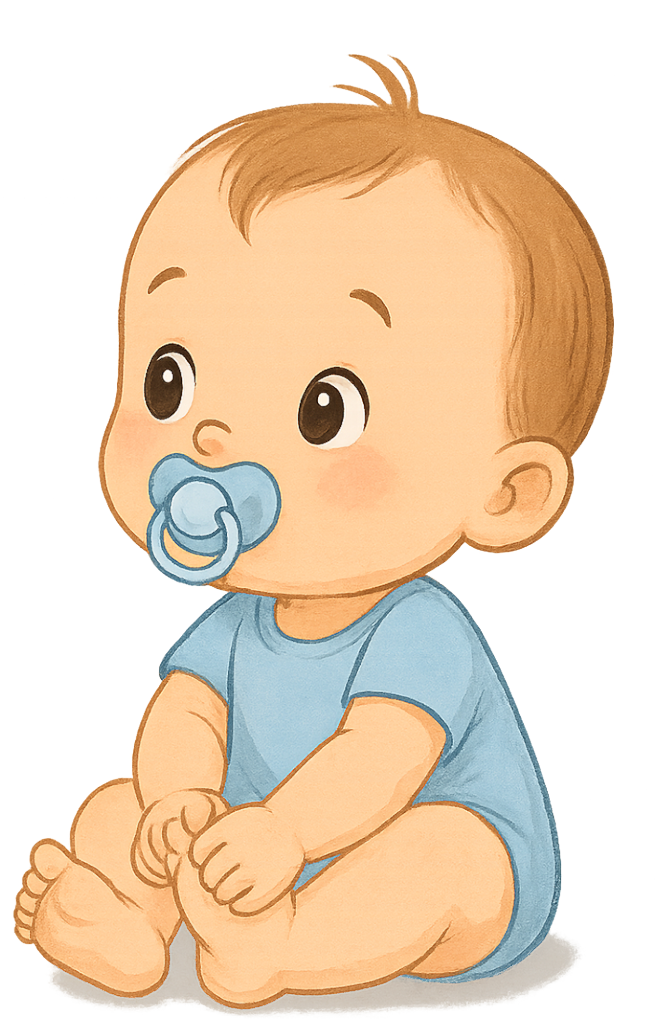
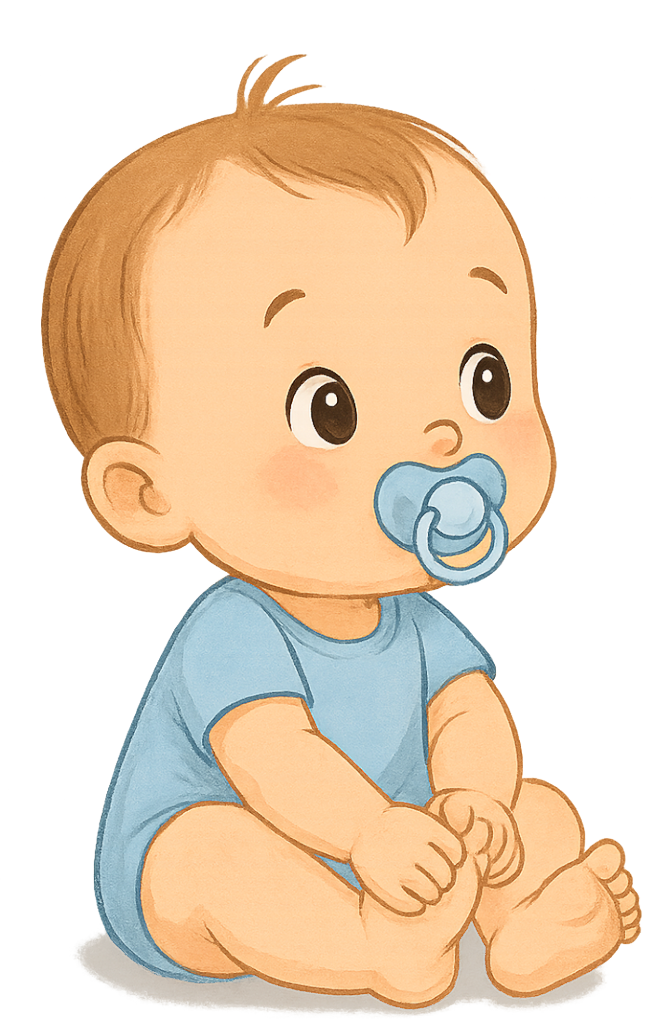
Update image sources and adjust styles for boy and girl sections; add mirror effect and test confetti

diff --git a/public/script.js b/public/script.js
@@ -2,7 +2,7 @@
 // MANUÁLIS VEZÉRLÉS
 // =======================
 
-const MODE = "before"; // "before" | "girl" | "boy"
+const MODE = "boy"; // "before" | "girl" | "boy"
 
 // =======================
 // DOM BETÖLTÉS UTÁN
@@ -23,8 +23,18 @@ document.addEventListener("DOMContentLoaded", () => {
   }
 
   // classok törlése
-  body.classList.remove("before", "girl", "boy");
-  body.classList.add(MODE);
+  /*body.classList.remove("before", "girl", "boy");
+  body.classList.add(MODE);*/
+
+  function switchMode(mode) {
+    body.classList.remove("before", "girl", "boy");
+    body.classList.remove("fade-in", "fade-out");
+
+    body.classList.add(mode);
+    body.classList.add("fade-in");
+
+    applyModeContent(mode);
+  }
 
   // tükrözés reset
   girlImg.classList.remove("mirror");
@@ -36,45 +46,65 @@ document.addEventListener("DOMContentLoaded", () => {
     girlImg.src = girlImg.dataset.normal;
     boyImg.src = boyImg.dataset.normal;
 
+    girlImg.classList.remove("mirror");
+    boyImg.classList.remove("mirror");
+
+    boyImg.classList.add("mirror");
+
     headline.innerHTML = `
       Hamarosan kiderül,<br>
       <span class="girl-word">kislány</span> leszek-e vagy
       <span class="boy-word">kisfiú</span>!
     `;
-
-    // főoldalon: bal baba jobbra néz
-    girlImg.classList.add("mirror");
   }
 
   if (MODE === "girl") {
     girlImg.src = girlImg.dataset.happy;
     boyImg.src = girlImg.dataset.happy;
+    girlImg.classList.remove("mirror");
+    boyImg.classList.remove("mirror");
+
+    boyImg.classList.add("mirror");
 
     headline.textContent = "Kislány leszek!";
-
-    // bal oldalon kislány balra néz
-    girlImg.classList.remove("mirror");
-    // jobb oldalon kislány jobbra néz
-    boyImg.classList.add("mirror");
   }
 
   if (MODE === "boy") {
     girlImg.src = boyImg.dataset.happy;
     boyImg.src = boyImg.dataset.happy;
-
-    headline.textContent = "Kisfiú leszek!";
-
-    // bal oldalon kisfiú jobbra néz
-    girlImg.classList.add("mirror");
-    // jobb oldalon kisfiú balra néz
+    girlImg.classList.remove("mirror");
     boyImg.classList.remove("mirror");
+
+    boyImg.classList.add("mirror");
+    headline.textContent = "Kisfiú leszek!";
   }
 
   // =======================
   // KONFETTI EFFEKT
   // =======================
 
-  function launchConfetti(side) {
+  // teszteléshez
+  function testConfetti() {
+    const layer = document.getElementById("confettiLayer");
+    if (!layer) {
+      console.error("confettiLayer nem található");
+      return;
+    }
+
+    const c = document.createElement("div");
+    c.style.position = "absolute";
+    c.style.left = "50%";
+    c.style.top = "50%";
+    c.style.width = "12px";
+    c.style.height = "12px";
+    c.style.background = "red";
+    c.style.borderRadius = "50%";
+
+    layer.appendChild(c);
+  }
+  // teszteléshez vége
+
+  /*function launchConfetti(side) {
     const confetti = document.createElement("div");
     confetti.className = "confetti";
 
@@ -120,7 +150,20 @@ document.addEventListener("DOMContentLoaded", () => {
         launchConfetti("right");
       }
     }, 200);
+  }*/
+
+  // teszt-konfetti indítása
+  document.addEventListener("DOMContentLoaded", testConfetti);
+  if (
+    document.body.classList.contains("girl") ||
+    document.body.classList.contains("boy")
+  ) {
+    setInterval(() => {
+      testConfetti("left");
+      testConfetti("right");
+    }, 200);
   }
+  // teszt-konfetti vége
 });
 
 // =======================
@@ -223,3 +266,5 @@ if (MODE === "before") {
     }
   }, 1000);
 }
+
+console.log("BODY CLASSES:", document.body.className);

diff --git a/public/style.css b/public/style.css
@@ -29,6 +29,14 @@ body.fade-out {
 }
 
 /* =========================
+   TÜKRÖM-TÜKRÖM MONDD MEG NÉKEM, miért szarakodsz minden képpel?
+   ========================= */
+
+.mirror {
+  transform: scaleX(-1);
+}
+
+/* =========================
    FŐOLDAL (BEFORE)
    ========================= */
 
@@ -173,18 +181,29 @@ body.girl {
   background: linear-gradient(to bottom, #ffd6e8, #ffeaf2);
 }
 
-body.girl .page {
-  height: 100vh;
+body.girl .content-container {
+  height: calc(70vh - 16vh);
 }
 
 body.girl .baby {
-  width: 22vw;
-  max-width: 320px;
+  flex: 0 0 28%;
+  display: flex;
+  justify-content: center;
+  align-items: center;
+}
+
+body.girl .baby {
   animation: bounce-girl 2.8s ease-in-out infinite;
 }
 
 body.girl .baby.right {
   animation-delay: 0.5s;
+}
+
+body.girl .baby img {
+  width: 100%;
+  height: auto;
+  max-width: 100%;
 }
 
 @keyframes bounce-girl {
@@ -198,7 +217,7 @@ body.girl .baby.right {
 }
 
 body.girl .center-text {
-  font-size: clamp(42px, 6vw, 72px);
+  /*font-size: clamp(42px, 6vw, 72px);*/
   color: #c2185b;
 }
 
@@ -210,15 +229,31 @@ body.boy {
   background: linear-gradient(to bottom, #d6ebff, #eef6ff);
 }
 
+body.boy .content-container {
+  height: calc(70vh - 16vh);
+}
+
 body.boy .baby {
-  width: 22vw;
-  max-width: 320px;
+  flex: 0 0 28%;
+  display: flex;
+  justify-content: center;
+  align-items: center;
+}
+
+body.boy .baby {
   animation: bounce-boy 2.8s ease-in-out infinite;
 }
 
 body.boy .baby.right {
   animation-delay: 0.5s;
 }
+
+body.boy .baby img {
+  width: 100%;
+  height: auto;
+  max-width: 100%;
+}
+
 
 @keyframes bounce-boy {
   0%,
@@ -231,7 +266,7 @@ body.boy .baby.right {
 }
 
 body.boy .center-text {
-  font-size: clamp(42px, 6vw, 72px);
+  /*font-size: clamp(42px, 6vw, 72px);*/
   color: #1565c0;
 }
 

diff --git a/public/index.html b/public/index.html
@@ -24,7 +24,12 @@
             <div class="page">
               <!-- BAL BABA -->
               <div class="baby left">
-                <img id="girlImg" alt="Kislány baba" />
+                <img
+                  id="girlImg"
+                  data-normal="images/babygirl.png"
+                  data-happy="images/babygirl_happy.png"
+                  alt="Kislány baba"
+                />
               </div>
 
               <!-- KÖZÉPSŐ SZÖVEG -->
@@ -34,7 +39,12 @@
 
               <!-- JOBB BABA -->
               <div class="baby right">
-                <img id="boyImg" alt="Kisfiú baba" />
+                <img
+                  id="boyImg"
+                  data-normal="images/babyboy.png"
+                  data-happy="images/babyboy_happy.png"
+                  alt="Kisfiú baba"
+                />
               </div>
             </div>
           </div>
